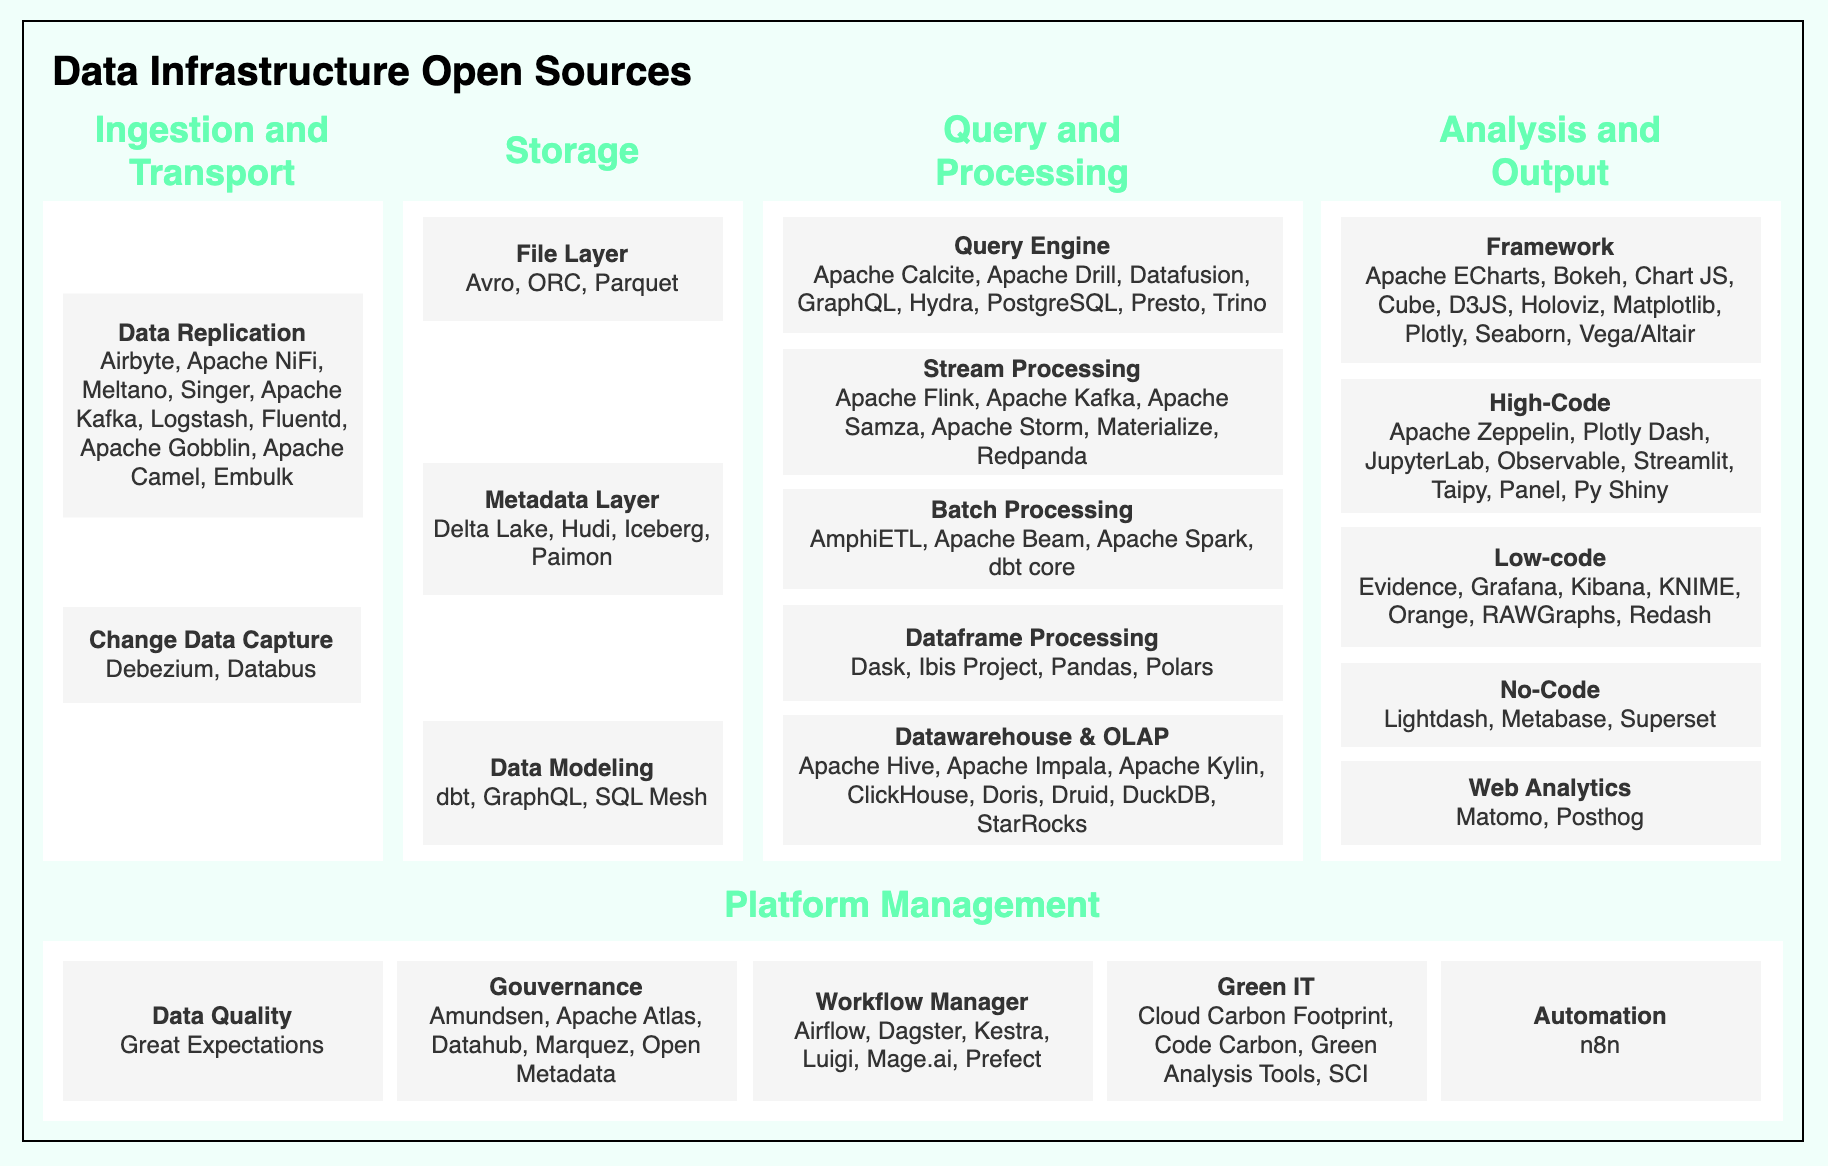
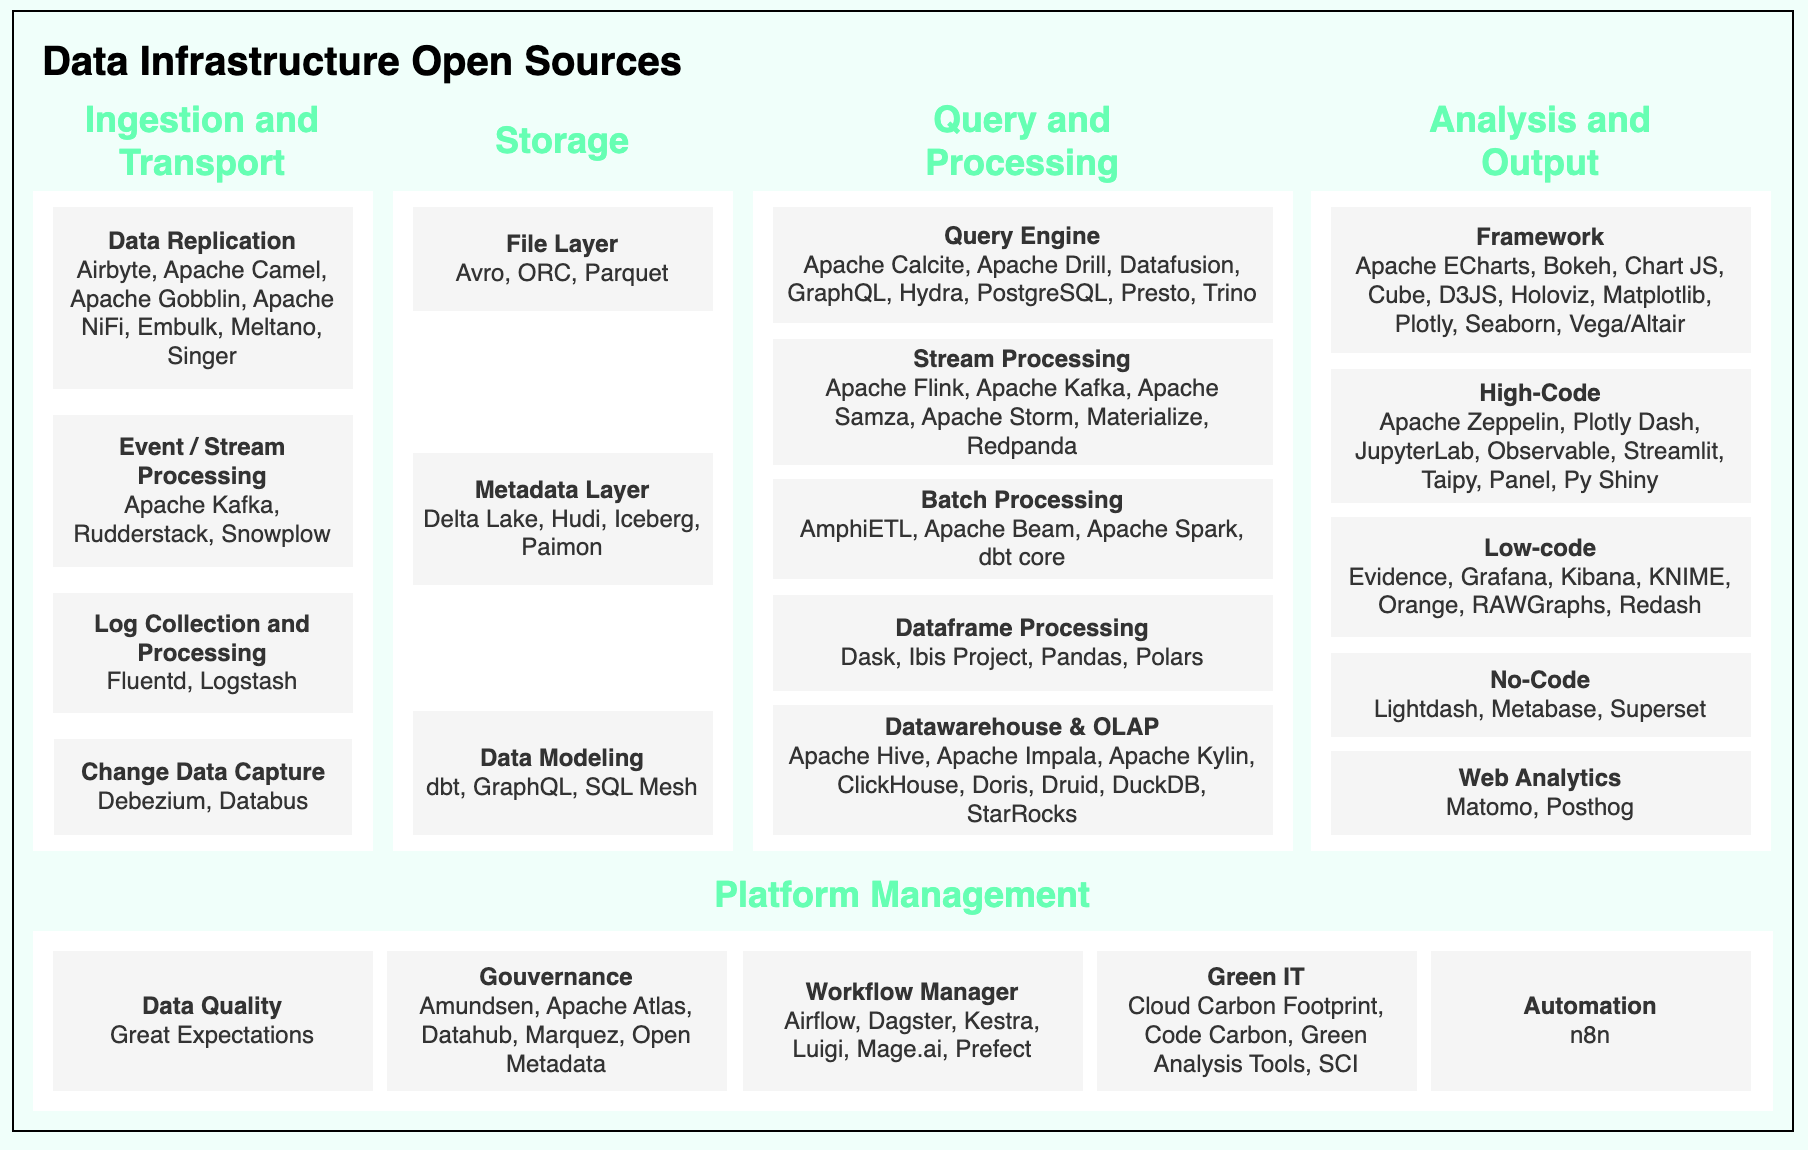
add ingestion

diff --git a/01.ingestion_and_transport.md b/01.ingestion_and_transport.md
@@ -2,74 +2,99 @@
 
 Data ingestion and transport are crucial processes in the field of data management. They involve collecting, moving, and integrating data from various sources into a centralized location, typically a data warehouse or data lake. These processes are essential to ensure that data is available, up-to-date, and ready for analysis.
 
-## Data Replication
-
-Data replication is the process of copying and synchronizing data between different systems or locations. It allows for maintaining consistent copies of data across multiple servers or sites, thus improving the availability, reliability, and performance of applications that depend on this data.
-
-## Change Data Capture (CDC)
-
-Change Data Capture (CDC) is a technique that identifies and captures changes made to data in a source, then transfers these changes to a target in real-time or near real-time. This approach is particularly useful for keeping systems synchronized without having to perform full data transfers each time.
+They can be broadly categorized into four main areas:
+- **Data Replication**: Process of copying and synchronizing data between different systems or locations. It maintains consistent data copies across multiple servers or sites, improving availability, reliability, and performance of dependent applications.
+- **Event/Stream Processing**: Handles real-time data flows as events occur, enabling continuous capture, processing, and analysis of data streams. Ideal for scenarios requiring immediate insights and real-time analytics, supporting high-throughput processing of live data.
+- **Log Collection and Processing**: Gathers, aggregates, and analyzes log data from various systems and applications. Provides capabilities for log parsing, filtering, and routing, essential for system monitoring, troubleshooting, and security analysis.
+- **Change Data Capture (CDC)**: Identifies and captures data changes at the source, transferring them to targets in real-time or near real-time. Enables efficient data replication and synchronization without full data transfers.
 
 ## Available Tools
 
-Here is a summary table of the main open-source data ingestion and transport tools we have identified.
+Here is a summary table of the main open-source data ingestion and transport tools we have identified, organized by their primary function:
 
-### Data Replication
+### Data Integration & ETL Platforms
+Tools focused on comprehensive data integration, ETL/ELT operations, and workflow management:
 
-| Tool | Subcategory | Creation Date | Stars | Forks | Contributors | Last Release | Latest Commit | Meets Criteria* | Link |
-|------|-------------|---------------|-------|-------|--------------|--------------|---------------|-----------------|------|
-| Airbyte | Data Replication | 12/07/2020 | 15616 | 4019 | 972 | 24/09/2024 | 25/09/2024 | Yes | https://github.com/airbytehq/airbyte |
-| Apache NiFi | Data Replication | 13/11/2014 | 4788 | 2668 | 483 | N/A | 26/09/2024 | Yes | https://github.com/apache/nifi |
-| Meltano | Data Replication | 28/08/2018 | 1787 | 156 | 126 | 25/09/2024 | 25/09/2024 | Yes | https://github.com/meltano/meltano |
-| Singer | Data Replication | 23/01/2017 | 536 | 130 | 28 | N/A | 03/09/2024 | Yes (all tap) | https://github.com/singer-io/singer-python |
-| Apache Kafka | Data Replication | 03/08/2011 | 28468 | 13859 | 1195 | N/A | 26/09/2024 | Yes | https://github.com/apache/kafka |
-| Logstash | Data Replication | 23/05/2009 | 14188 | 3496 | 459 | 10/09/2024 | 25/09/2024 | Yes | https://github.com/elastic/logstash |
-| Fluentd | Data Replication | 12/10/2011 | 12850 | 1339 | 245 | 20/08/2024 | 26/09/2024 | Yes | https://github.com/fluent/fluentd |
-| Apache Gobblin | Data Replication | 02/10/2014 | 2214 | 744 | 112 | 20/07/2017 | 19/09/2024 | No | https://github.com/apache/gobblin |
-| Apache Camel | Data Replication | 19/03/2007 | 5526 | 4936 | 1065 | N/A | 26/09/2024 | Yes | https://github.com/apache/camel |
-| Embulk | Data Replication | 01/02/2015 | 1748 | 201 | 49 | 17/09/2024 | 24/09/2024 | Yes | https://github.com/embulk/embulk |
+| Tool | Creation Date | Stars | Forks | Contributors | Last Release | Latest Commit | Meets Criteria* | Link |
+|------|---------------|-------|-------|--------------|--------------|---------------|-----------------|------|
+| Airbyte | 12/07/2020 | 15616 | 4019 | 972 | 24/09/2024 | 25/09/2024 | Yes | https://github.com/airbytehq/airbyte |
+| Apache Camel | 19/03/2007 | 5526 | 4936 | 1065 | N/A | 26/09/2024 | Yes | https://github.com/apache/camel |
+| Apache Gobblin | 02/10/2014 | 2214 | 744 | 112 | 20/07/2017 | 19/09/2024 | No | https://github.com/apache/gobblin |
+| Apache NiFi | 13/11/2014 | 4788 | 2668 | 483 | N/A | 26/09/2024 | Yes | https://github.com/apache/nifi |
+| Embulk | 01/02/2015 | 1748 | 201 | 49 | 17/09/2024 | 24/09/2024 | Yes | https://github.com/embulk/embulk |
+| Meltano | 28/08/2018 | 1787 | 156 | 126 | 25/09/2024 | 25/09/2024 | Yes | https://github.com/meltano/meltano |
+| Singer | 23/01/2017 | 536 | 130 | 28 | N/A | 03/09/2024 | Yes (all tap) | https://github.com/singer-io/singer-python |
+
+### Event/Stream Processing
+Tools specialized in handling real-time data streams and event processing:
+
+| Tool | Creation Date | Stars | Forks | Contributors | Last Release | Latest Commit | Meets Criteria* | Link |
+|------|---------------|-------|-------|--------------|--------------|---------------|-----------------|------|
+| Apache Kafka | 03/08/2011 | 28468 | 13859 | 1195 | N/A | 26/09/2024 | Yes | https://github.com/apache/kafka |
+| Rudderstack | 19/07/2019 | 4073 | 314 | 99 | 15/10/2024 | 19/10/2024 | Yes | https://github.com/rudderlabs/rudder-server |
+| Snowplow | 01/03/2012 | 6836 | 1189 | 75 | 31/01/2022 | 02/09/2024 | Yes | https://github.com/snowplow/snowplow |
+
+### Log Collection and Processing
+Tools focused on collecting, processing, and routing log data:
+
+| Tool | Creation Date | Stars | Forks | Contributors | Last Release | Latest Commit | Meets Criteria* | Link |
+|------|---------------|-------|-------|--------------|--------------|---------------|-----------------|------|
+| Fluentd | 12/10/2011 | 12850 | 1339 | 245 | 20/08/2024 | 26/09/2024 | Yes | https://github.com/fluent/fluentd |
+| Logstash | 23/05/2009 | 14188 | 3496 | 459 | 10/09/2024 | 25/09/2024 | Yes | https://github.com/elastic/logstash |
 
 ### Change Data Capture
 
-| Tool | Subcategory | Creation Date | Stars | Forks | Contributors | Last Release | Latest Commit | Meets Criteria* | Link |
-|------|-------------|---------------|-------|-------|--------------|--------------|---------------|-----------------|------|
-| Debezium | Change Data Capture | 25/03/2016 | 10471 | 2497 | 540 | N/A | 25/09/2024 | Yes | https://github.com/debezium/debezium |
-| Databus | Change Data Capture | 10/10/2012 | 3634 | 732 | 12 | N/A | 07/05/2020 | No | https://github.com/linkedin/databus |
+| Tool | Creation Date | Stars | Forks | Contributors | Last Release | Latest Commit | Meets Criteria* | Link |
+|------|---------------|-------|-------|--------------|--------------|---------------|-----------------|------|
+| Debezium | 25/03/2016 | 10471 | 2497 | 540 | N/A | 25/09/2024 | Yes | https://github.com/debezium/debezium |
+| Databus | 10/10/2012 | 3634 | 732 | 12 | N/A | 07/05/2020 | No | https://github.com/linkedin/databus |
 
 *Criteria: >40 contributors, >500 stars, and recent releases/commit
 
 ## Tool Details
 
-<img src="01.ingestion_and_transport.PNG" alt="Ingestion and Transport" style="width:200px;"/>
-
 ### Data Replication
 
 1. **Airbyte**: An open-source data integration platform focusing on ELT (Extract, Load, Transform). It offers a wide range of connectors and is designed for easy customization.
-2. **Apache NiFi**: A software project for automating and managing the flow of data between systems. It provides a web-based interface for designing, controlling, and monitoring data flows.
-3. **Meltano**: An open source ELT platform built by GitLab. It integrates with Singer taps and targets, making it versatile for various data sources and destinations.
-4. **Singer**: An open-source standard for writing scripts that move data. It defines a JSON-based data exchange format that works with various sources and destinations.
-5. **Apache Kafka**: While primarily a distributed event streaming platform, Kafka is often used for data ingestion due to its high-throughput, fault-tolerant architecture.
-6. **Logstash**: Part of the Elastic Stack, Logstash is a server-side data processing pipeline that ingests data from multiple sources simultaneously, transforms it, and then sends it to your favorite "stash."
-7. **Fluentd**: An open source data collector for unified logging layer. It allows you to unify data collection and consumption for better use and understanding of data.
-8. **Apache Gobblin**: A distributed data integration framework that simplifies common aspects of big data integration such as data ingestion, replication, organization and lifecycle management.
-9. **Apache Camel**: A versatile open-source integration framework based on known Enterprise Integration Patterns. It supports a vast array of protocols and data formats.
-10. **Embulk**: An open-source bulk data loader that helps data transfer between various databases, storages, file formats, and cloud services.
+2. **Apache Camel**: A versatile open-source integration framework based on known Enterprise Integration Patterns. It supports a vast array of protocols and data formats.
+3. **Apache Gobblin**: A distributed data integration framework that simplifies common aspects of big data integration such as data ingestion, replication, organization and lifecycle management.
+4. **Apache NiFi**: A software project for automating and managing the flow of data between systems. It provides a web-based interface for designing, controlling, and monitoring data flows.
+5. **Embulk**: An open-source bulk data loader that helps data transfer between various databases, storages, file formats, and cloud services.
+6. **Meltano**: An open source ELT platform built by GitLab. It integrates with Singer taps and targets, making it versatile for various data sources and destinations.
+7. **Singer**: An open-source standard for writing scripts that move data. It defines a JSON-based data exchange format that works with various sources and destinations.
+
+### Event/Stream Processing
+
+1. **Apache Kafka**: A distributed event streaming platform known for its high-throughput, fault-tolerant architecture, widely used for data ingestion and real-time stream processing.
+2. **Rudderstack**: An open-source customer data platform that enables collecting, routing, and transforming data from various sources to multiple destinations.
+3. **Snowplow**: An open-source event data collection platform that enables collection, enrichment, and tracking of event data from multiple sources.
+
+### Log Collection and Processing
+
+1. **Fluentd**: An open source data collector for unified logging layer. It allows you to unify data collection and consumption for better use and understanding of data.
+2. **Logstash**: Part of the Elastic Stack, Logstash is a server-side data processing pipeline that ingests data from multiple sources simultaneously, transforms it, and then sends it to your favorite "stash."
 
 ### Change Data Capture
 
 1. **Debezium**: An open-source distributed platform for change data capture. Built on top of Apache Kafka, it provides a set of Kafka Connect compatible connectors that monitor specific database management systems, capturing row-level changes in real-time.
 2. **Databus**: Developed by LinkedIn, Databus is a source-agnostic distributed change data capture system. It's designed for online low-latency consumption of high-volume database changes.
 
-When choosing a data ingestion and transport tool, consider factors such as the types of data sources and destinations you need to support, the volume and velocity of your data, your team's technical expertise, and integration with your existing data stack.
+## Selection Criteria
 
-When choosing a CDC tool, consider factors such as your source database system, target systems, latency requirements, and scalability needs.
+When choosing a data ingestion and transport tool, consider these key factors:
 
-It's often beneficial to test a few different solutions to find the one that best fits your specific use case and requirements. The open-source nature of these tools allows for extensive customization and community support, which can be crucial for addressing unique data ingestion challenges or change data capture.
+1. **Data Sources and Destinations**: Ensure the tool supports your required data sources and destinations.
+2. **Volume and Velocity**: Consider the tool's ability to handle your data volume and speed requirements.
+3. **Technical Expertise**: Evaluate whether your team has the necessary skills to implement and maintain the tool.
+4. **Integration Capabilities**: Check compatibility with your existing data stack.
+5. **Community and Support**: Look for active development, good documentation, and community support.
+6. **Scalability**: Ensure the tool can grow with your needs.
+7. **Performance**: Consider throughput, latency, and resource requirements.
 
-## The Challenge of Choice
-The open-source community has developed numerous solutions for various aspects of data handling, including:
-- [Ingestion and Transport](01.ingestion_and_transport.md)
-- [Storage](02.storage.md)
-- [Query and Processing](d03.query_and_processing.md)
-- [Analysis and Output](04.analysis_and_output.md)
-- [Platform Management](05.platform_management.md)
+For CDC tools specifically, additional considerations include:
+- Source database system compatibility
+- Target system requirements
+- Latency requirements
+- Scalability needs
+
+It's recommended to test multiple solutions to find the best fit for your specific use case and requirements. The open-source nature of these tools allows for extensive customization and community support, which can be crucial for addressing unique data ingestion challenges.
